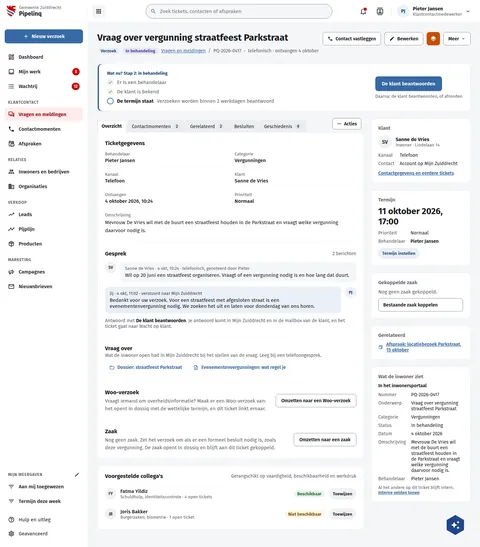
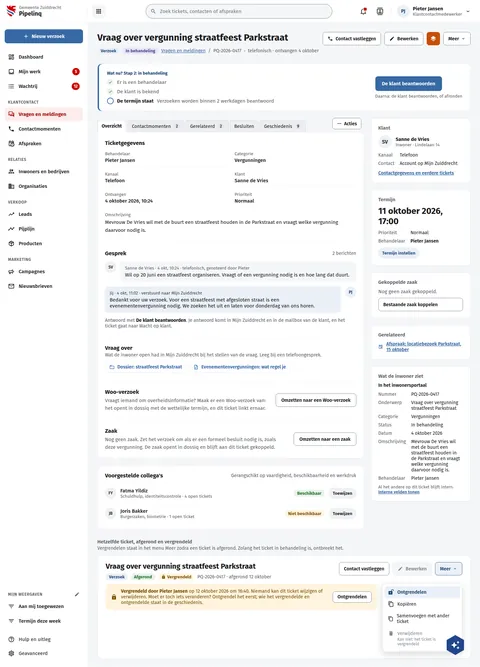
feat(screens): PqTicket draws the finished ticket locked, with who locked it
Row plat-record-lock (platform-record-lock, REQ-PRL-001 to 003): a second frame under the ticket shows the same ticket finished and locked. The lock strip names who locked it and when, Unlock sits in the More menu where Lock was, Edit is disabled and Delete says the ticket is locked. The capability note on canvas1.json lists the row; the English catalogue carries the new strings.

Assisted-by: ClaudeCode:claude-fable-5-1

diff --git a/preview/screens/boards/PqTicket.html b/preview/screens/boards/PqTicket.html
@@ -348,6 +348,41 @@ a{color:var(--sc-primary, #3669a5)}a:hover{color:var(--sc-primary-deep, #234a78)
             </section>
           </aside>
         </div>
+
+        <section aria-labelledby="pq-lock" style="display: flex; flex-direction: column; gap: 12px; padding-top: 8px">
+          <div style="display: flex; flex-direction: column; gap: 2px"><h2 id="pq-lock" style="margin: 0; font-size: 15px; font-weight: 600; color: var(--sc-work-muted, #5e6168)">Hetzelfde ticket, afgerond en vergrendeld</h2><span style="font-size: 14px; color: var(--sc-work-muted, #5e6168)">Vergrendelen staat in het menu Meer zodra een ticket is afgerond. Zolang het ticket in behandeling is, ontbreekt het.</span></div>
+          <div style="background: #ffffff; border: 1px solid var(--sc-work-line, #e4e6ea); border-radius: 12px; padding: 20px 24px; display: flex; flex-direction: column; gap: 14px">
+            <div style="display: flex; flex-wrap: wrap; justify-content: space-between; align-items: flex-start; gap: 12px 24px">
+              <div style="flex: 1 1 320px; min-width: 0; display: flex; flex-direction: column; gap: 8px">
+                <h3 style="margin: 0; font-size: 22px; font-weight: 700; line-height: 1.2">Vraag over vergunning straatfeest Parkstraat</h3>
+                <div style="display: flex; flex-wrap: wrap; gap: 8px; align-items: center">
+                  <span style="padding: 3px 10px; border-radius: 12px; background: var(--sc-primary-light, #eaf0f7); color: var(--sc-primary-deep, #234a78); font-size: 13px; font-weight: 600">Verzoek</span>
+                  <span style="padding: 3px 10px; border-radius: 12px; background: #e7f3ea; color: #1e6b2a; font-size: 13px; font-weight: 600">Afgerond</span>
+                  <span style="display: inline-flex; align-items: center; gap: 5px; padding: 3px 10px; border-radius: 12px; background: #fff4de; color: #7a4f00; font-size: 13px; font-weight: 600"><svg width="13" height="13" viewbox="0 0 24 24" fill="currentColor" aria-hidden="true"><path d="M12,17A2,2 0 0,0 14,15A2,2 0 0,0 12,13A2,2 0 0,0 10,15A2,2 0 0,0 12,17M18,8A2,2 0 0,1 20,10V20A2,2 0 0,1 18,22H6A2,2 0 0,1 4,20V10C4,8.89 4.9,8 6,8H7V6A5,5 0 0,1 12,1A5,5 0 0,1 17,6V8H18M12,3A3,3 0 0,0 9,6V8H15V6A3,3 0 0,0 12,3Z"></path></svg>Vergrendeld</span>
+                  <span style="font-size: 14px; color: var(--sc-work-muted, #5e6168)">PQ-2026-0417 · afgerond 12 oktober</span>
+                </div>
+              </div>
+              <div style="flex: none; display: flex; flex-wrap: wrap; gap: 10px">
+                <button type="button" style="display: flex; align-items: center; gap: 8px; height: 40px; padding: 0 14px; border: 1px solid var(--sc-work-field, #828a95); border-radius: 8px; background: #ffffff; font: 600 14px var(--sc-font, 'Fira Sans'), sans-serif; color: var(--sc-work-ink, #1b1c1d)">Contact vastleggen</button>
+                <button type="button" aria-disabled="true" title="Vergrendeld: eerst ontgrendelen" style="display: flex; align-items: center; gap: 8px; height: 40px; padding: 0 14px; border: 1px solid var(--sc-work-line, #e4e6ea); border-radius: 8px; background: var(--sc-work-ground, #f5f6f8); font: 600 14px var(--sc-font, 'Fira Sans'), sans-serif; color: var(--sc-work-field, #828a95)"><svg width="16" height="16" viewbox="0 0 24 24" fill="currentColor" aria-hidden="true"><path d="M20.71,7.04C21.1,6.65 21.1,6 20.71,5.63L18.37,3.29C18,2.9 17.35,2.9 16.96,3.29L15.12,5.12L18.87,8.87M3,17.25V21H6.75L17.81,9.93L14.06,6.18L3,17.25Z"></path></svg>Bewerken</button>
+                <button type="button" aria-haspopup="menu" aria-expanded="true" style="display: flex; align-items: center; gap: 6px; height: 40px; padding: 0 14px; border: 1px solid var(--sc-primary, #3669a5); border-radius: 8px; background: var(--sc-primary-light, #eaf0f7); font: 600 14px var(--sc-font, 'Fira Sans'), sans-serif; color: var(--sc-primary-deep, #234a78)">Meer<svg width="14" height="14" viewbox="0 0 24 24" fill="currentColor" aria-hidden="true"><path d="M7.41,15.41L12,10.83L16.59,15.41L18,14L12,8L6,14L7.41,15.41Z"></path></svg></button>
+                </div>
+            </div>
+            <div style="display: flex; flex-wrap: wrap; gap: 16px; align-items: flex-start; margin-top: -4px">
+              <section aria-label="Vergrendeld" style="flex: 1 1 480px; align-self: flex-start; display: flex; flex-wrap: wrap; gap: 12px; align-items: center; padding: 14px 16px; border-radius: 12px; background: #fff4de; color: #7a4f00; font-size: 14px">
+              <svg width="18" height="18" viewbox="0 0 24 24" fill="currentColor" aria-hidden="true"><path d="M12,17A2,2 0 0,0 14,15A2,2 0 0,0 12,13A2,2 0 0,0 10,15A2,2 0 0,0 12,17M18,8A2,2 0 0,1 20,10V20A2,2 0 0,1 18,22H6A2,2 0 0,1 4,20V10C4,8.89 4.9,8 6,8H7V6A5,5 0 0,1 12,1A5,5 0 0,1 17,6V8H18M12,3A3,3 0 0,0 9,6V8H15V6A3,3 0 0,0 12,3Z"></path></svg>
+              <span style="flex: 1 1 260px"><strong>Vergrendeld door Pieter Jansen</strong> op 12 oktober 2026 om 16:40. Niemand kan dit ticket wijzigen of verwijderen. Moet er toch iets veranderen? Ontgrendel het eerst; wie het vergrendelde en ontgrendelde staat in de geschiedenis.</span>
+              <button type="button" style="display: inline-flex; align-items: center; gap: 8px; height: 34px; padding: 0 14px; border-radius: 8px; font: 600 14px var(--sc-font, 'Fira Sans'), sans-serif; white-space: nowrap; border: 1px solid var(--sc-work-field, #828a95); background: #ffffff; color: var(--sc-work-ink, #1b1c1d)">Ontgrendelen</button>
+            </section>
+              <div style="flex: none; width: 240px; display: flex; justify-content: flex-end"><ul role="menu" aria-label="Meer" style="margin: 0; padding: 6px; list-style: none; width: 240px; background: #ffffff; border: 1px solid var(--sc-work-line, #e4e6ea); border-radius: 10px; box-shadow: 0 8px 24px rgba(27,28,29,0.16); display: flex; flex-direction: column; font-size: 14px">
+                  <li role="menuitem" style="display: flex; align-items: center; gap: 10px; padding: 9px 10px; border-radius: 6px; background: var(--sc-primary-light, #eaf0f7); color: var(--sc-primary-deep, #234a78); font-weight: 600"><svg width="18" height="18" viewbox="0 0 24 24" fill="currentColor" aria-hidden="true"><path d="M18 1C15.24 1 13 3.24 13 6V8H4C2.9 8 2 8.9 2 10V20C2 21.1 2.9 22 4 22H16C17.1 22 18 21.1 18 20V10C18 8.9 17.1 8 16 8H15V6C15 4.34 16.34 3 18 3C19.66 3 21 4.34 21 6V8H23V6C23 3.24 20.76 1 18 1M10 13C11.1 13 12 13.9 12 15C12 16.1 11.1 17 10 17C8.9 17 8 16.1 8 15C8 13.9 8.9 13 10 13Z"></path></svg>Ontgrendelen</li>
+                  <li role="menuitem" style="display: flex; align-items: center; gap: 10px; padding: 9px 10px; border-radius: 6px; color: var(--sc-work-ink, #1b1c1d)"><svg width="18" height="18" viewbox="0 0 24 24" fill="currentColor" aria-hidden="true"><path d="M19,21H8V7H19M19,5H8A2,2 0 0,0 6,7V21A2,2 0 0,0 8,23H19A2,2 0 0,0 21,21V7A2,2 0 0,0 19,5M16,1H4A2,2 0 0,0 2,3V17H4V3H16V1Z"></path></svg>Kopiëren</li>
+                  <li role="menuitem" style="display: flex; align-items: center; gap: 10px; padding: 9px 10px; border-radius: 6px; color: var(--sc-work-ink, #1b1c1d)"><svg width="18" height="18" viewbox="0 0 24 24" fill="currentColor" aria-hidden="true"><path d="M19,21H8V7H19M19,5H8A2,2 0 0,0 6,7V21A2,2 0 0,0 8,23H19A2,2 0 0,0 21,21V7A2,2 0 0,0 19,5M16,1H4A2,2 0 0,0 2,3V17H4V3H16V1Z"></path></svg>Samenvoegen met ander ticket</li>
+                  <li role="menuitem" aria-disabled="true" style="display: flex; flex-direction: column; gap: 2px; padding: 9px 10px; border-radius: 6px; color: var(--sc-work-field, #828a95)"><span style="display: flex; align-items: center; gap: 10px"><svg width="18" height="18" viewbox="0 0 24 24" fill="currentColor" aria-hidden="true"><path d="M19,4H15.5L14.5,3H9.5L8.5,4H5V6H19M6,19A2,2 0 0,0 8,21H16A2,2 0 0,0 18,19V7H6V19Z"></path></svg>Verwijderen</span><span style="font-size: 12px; padding-left: 28px">Kan niet: het ticket is vergrendeld</span></li>
+              </ul></div>
+            </div>
+          </div>
+        </section>
       </main>
     </div>
   </div>

diff --git a/screens-src/zuiddrecht/PqTicket.dc.html b/screens-src/zuiddrecht/PqTicket.dc.html
@@ -164,12 +164,47 @@ a{color:#3669a5}a:hover{color:#234a78}
             </section>
           </aside>
         </div>
+
+        <section aria-labelledby="pq-lock" style="display: flex; flex-direction: column; gap: 12px; padding-top: 8px">
+          <div style="display: flex; flex-direction: column; gap: 2px"><h2 id="pq-lock" style="margin: 0; font-size: 15px; font-weight: 600; color: #5e6168">Hetzelfde ticket, afgerond en vergrendeld</h2><span style="font-size: 14px; color: #5e6168">Vergrendelen staat in het menu Meer zodra een ticket is afgerond. Zolang het ticket in behandeling is, ontbreekt het.</span></div>
+          <div style="background: #ffffff; border: 1px solid #e4e6ea; border-radius: 12px; padding: 20px 24px; display: flex; flex-direction: column; gap: 14px">
+            <div style="display: flex; flex-wrap: wrap; justify-content: space-between; align-items: flex-start; gap: 12px 24px">
+              <div style="flex: 1 1 320px; min-width: 0; display: flex; flex-direction: column; gap: 8px">
+                <h3 style="margin: 0; font-size: 22px; font-weight: 700; line-height: 1.2">Vraag over vergunning straatfeest Parkstraat</h3>
+                <div style="display: flex; flex-wrap: wrap; gap: 8px; align-items: center">
+                  <span style="padding: 3px 10px; border-radius: 12px; background: #eaf0f7; color: #234a78; font-size: 13px; font-weight: 600">Verzoek</span>
+                  <span style="padding: 3px 10px; border-radius: 12px; background: #e7f3ea; color: #1e6b2a; font-size: 13px; font-weight: 600">Afgerond</span>
+                  <span style="display: inline-flex; align-items: center; gap: 5px; padding: 3px 10px; border-radius: 12px; background: #fff4de; color: #7a4f00; font-size: 13px; font-weight: 600"><svg width="13" height="13" viewBox="0 0 24 24" fill="currentColor" aria-hidden="true"><path d="M12,17A2,2 0 0,0 14,15A2,2 0 0,0 12,13A2,2 0 0,0 10,15A2,2 0 0,0 12,17M18,8A2,2 0 0,1 20,10V20A2,2 0 0,1 18,22H6A2,2 0 0,1 4,20V10C4,8.89 4.9,8 6,8H7V6A5,5 0 0,1 12,1A5,5 0 0,1 17,6V8H18M12,3A3,3 0 0,0 9,6V8H15V6A3,3 0 0,0 12,3Z"></path></svg>Vergrendeld</span>
+                  <span style="font-size: 14px; color: #5e6168">PQ-2026-0417 · afgerond 12 oktober</span>
+                </div>
+              </div>
+              <div style="flex: none; display: flex; flex-wrap: wrap; gap: 10px">
+                <button type="button" style="display: flex; align-items: center; gap: 8px; height: 40px; padding: 0 14px; border: 1px solid #828a95; border-radius: 8px; background: #ffffff; font: 600 14px 'Fira Sans', sans-serif; color: #1b1c1d">Contact vastleggen</button>
+                <button type="button" aria-disabled="true" title="Vergrendeld: eerst ontgrendelen" style="display: flex; align-items: center; gap: 8px; height: 40px; padding: 0 14px; border: 1px solid #e4e6ea; border-radius: 8px; background: #f5f6f8; font: 600 14px 'Fira Sans', sans-serif; color: #828a95"><svg width="16" height="16" viewBox="0 0 24 24" fill="currentColor" aria-hidden="true"><path d="M20.71,7.04C21.1,6.65 21.1,6 20.71,5.63L18.37,3.29C18,2.9 17.35,2.9 16.96,3.29L15.12,5.12L18.87,8.87M3,17.25V21H6.75L17.81,9.93L14.06,6.18L3,17.25Z"></path></svg>Bewerken</button>
+                <button type="button" aria-haspopup="menu" aria-expanded="true" style="display: flex; align-items: center; gap: 6px; height: 40px; padding: 0 14px; border: 1px solid #3669a5; border-radius: 8px; background: #eaf0f7; font: 600 14px 'Fira Sans', sans-serif; color: #234a78">Meer<svg width="14" height="14" viewBox="0 0 24 24" fill="currentColor" aria-hidden="true"><path d="M7.41,15.41L12,10.83L16.59,15.41L18,14L12,8L6,14L7.41,15.41Z"></path></svg></button>
+                </div>
+            </div>
+            <div style="display: flex; flex-wrap: wrap; gap: 16px; align-items: flex-start; margin-top: -4px">
+              <section aria-label="Vergrendeld" style="flex: 1 1 480px; align-self: flex-start; display: flex; flex-wrap: wrap; gap: 12px; align-items: center; padding: 14px 16px; border-radius: 12px; background: #fff4de; color: #7a4f00; font-size: 14px">
+              <svg width="18" height="18" viewBox="0 0 24 24" fill="currentColor" aria-hidden="true"><path d="M12,17A2,2 0 0,0 14,15A2,2 0 0,0 12,13A2,2 0 0,0 10,15A2,2 0 0,0 12,17M18,8A2,2 0 0,1 20,10V20A2,2 0 0,1 18,22H6A2,2 0 0,1 4,20V10C4,8.89 4.9,8 6,8H7V6A5,5 0 0,1 12,1A5,5 0 0,1 17,6V8H18M12,3A3,3 0 0,0 9,6V8H15V6A3,3 0 0,0 12,3Z"></path></svg>
+              <span style="flex: 1 1 260px"><strong>Vergrendeld door Pieter Jansen</strong> op 12 oktober 2026 om 16:40. Niemand kan dit ticket wijzigen of verwijderen. Moet er toch iets veranderen? Ontgrendel het eerst; wie het vergrendelde en ontgrendelde staat in de geschiedenis.</span>
+              <button type="button" style="display: inline-flex; align-items: center; gap: 8px; height: 34px; padding: 0 14px; border-radius: 8px; font: 600 14px 'Fira Sans', sans-serif; white-space: nowrap; border: 1px solid #828a95; background: #ffffff; color: #1b1c1d">Ontgrendelen</button>
+            </section>
+              <div style="flex: none; width: 240px; display: flex; justify-content: flex-end"><ul role="menu" aria-label="Meer" style="margin: 0; padding: 6px; list-style: none; width: 240px; background: #ffffff; border: 1px solid #e4e6ea; border-radius: 10px; box-shadow: 0 8px 24px rgba(27,28,29,0.16); display: flex; flex-direction: column; font-size: 14px">
+                  <li role="menuitem" style="display: flex; align-items: center; gap: 10px; padding: 9px 10px; border-radius: 6px; background: #eaf0f7; color: #234a78; font-weight: 600"><svg width="18" height="18" viewBox="0 0 24 24" fill="currentColor" aria-hidden="true"><path d="M18 1C15.24 1 13 3.24 13 6V8H4C2.9 8 2 8.9 2 10V20C2 21.1 2.9 22 4 22H16C17.1 22 18 21.1 18 20V10C18 8.9 17.1 8 16 8H15V6C15 4.34 16.34 3 18 3C19.66 3 21 4.34 21 6V8H23V6C23 3.24 20.76 1 18 1M10 13C11.1 13 12 13.9 12 15C12 16.1 11.1 17 10 17C8.9 17 8 16.1 8 15C8 13.9 8.9 13 10 13Z"></path></svg>Ontgrendelen</li>
+                  <li role="menuitem" style="display: flex; align-items: center; gap: 10px; padding: 9px 10px; border-radius: 6px; color: #1b1c1d"><svg width="18" height="18" viewBox="0 0 24 24" fill="currentColor" aria-hidden="true"><path d="M19,21H8V7H19M19,5H8A2,2 0 0,0 6,7V21A2,2 0 0,0 8,23H19A2,2 0 0,0 21,21V7A2,2 0 0,0 19,5M16,1H4A2,2 0 0,0 2,3V17H4V3H16V1Z"></path></svg>Kopiëren</li>
+                  <li role="menuitem" style="display: flex; align-items: center; gap: 10px; padding: 9px 10px; border-radius: 6px; color: #1b1c1d"><svg width="18" height="18" viewBox="0 0 24 24" fill="currentColor" aria-hidden="true"><path d="M19,21H8V7H19M19,5H8A2,2 0 0,0 6,7V21A2,2 0 0,0 8,23H19A2,2 0 0,0 21,21V7A2,2 0 0,0 19,5M16,1H4A2,2 0 0,0 2,3V17H4V3H16V1Z"></path></svg>Samenvoegen met ander ticket</li>
+                  <li role="menuitem" aria-disabled="true" style="display: flex; flex-direction: column; gap: 2px; padding: 9px 10px; border-radius: 6px; color: #828a95"><span style="display: flex; align-items: center; gap: 10px"><svg width="18" height="18" viewBox="0 0 24 24" fill="currentColor" aria-hidden="true"><path d="M19,4H15.5L14.5,3H9.5L8.5,4H5V6H19M6,19A2,2 0 0,0 8,21H16A2,2 0 0,0 18,19V7H6V19Z"></path></svg>Verwijderen</span><span style="font-size: 12px; padding-left: 28px">Kan niet: het ticket is vergrendeld</span></li>
+              </ul></div>
+            </div>
+          </div>
+        </section>
       </main>
     </div>
   </div>
 </div>
 </x-dc>
-<script type="text/x-dc" data-dc-script data-props='{"$preview":{"width":1440,"height":1640}}'>
+<script type="text/x-dc" data-dc-script data-props='{"$preview":{"width":1440,"height":1960}}'>
 class Component extends DCLogic {
   renderVals() {
     const withCounts = (arr) => arr.map((t) => { const m = /^(.*?)\s+(\d[\d.,]*)(\s+.*)?$/.exec(t.label || ''); return m ? Object.assign({}, t, { label: m[1] + (m[3] || ''), count: m[2], hasCount: true }) : Object.assign({}, t, { hasCount: false }); });
